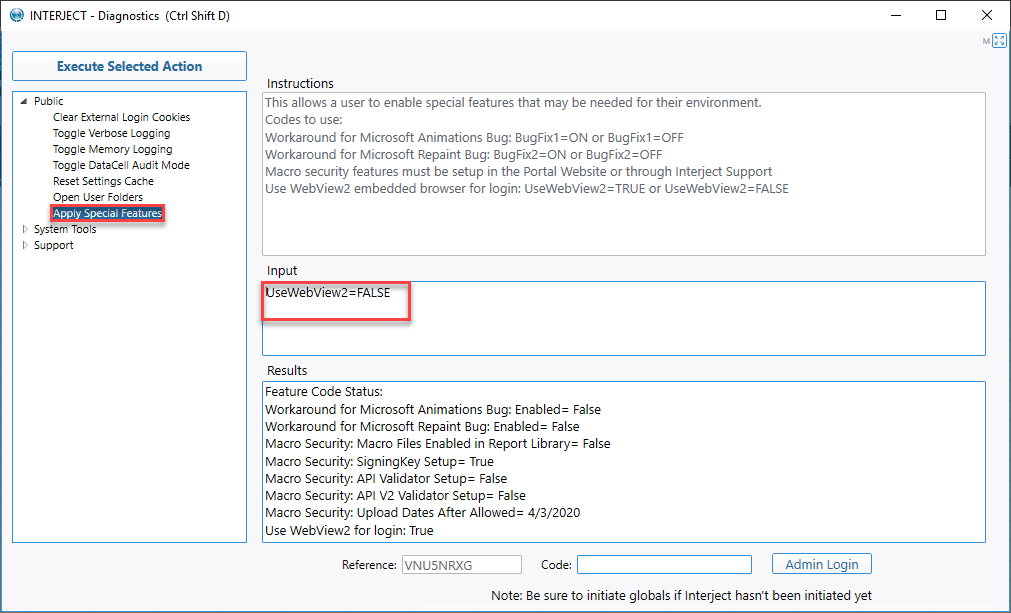
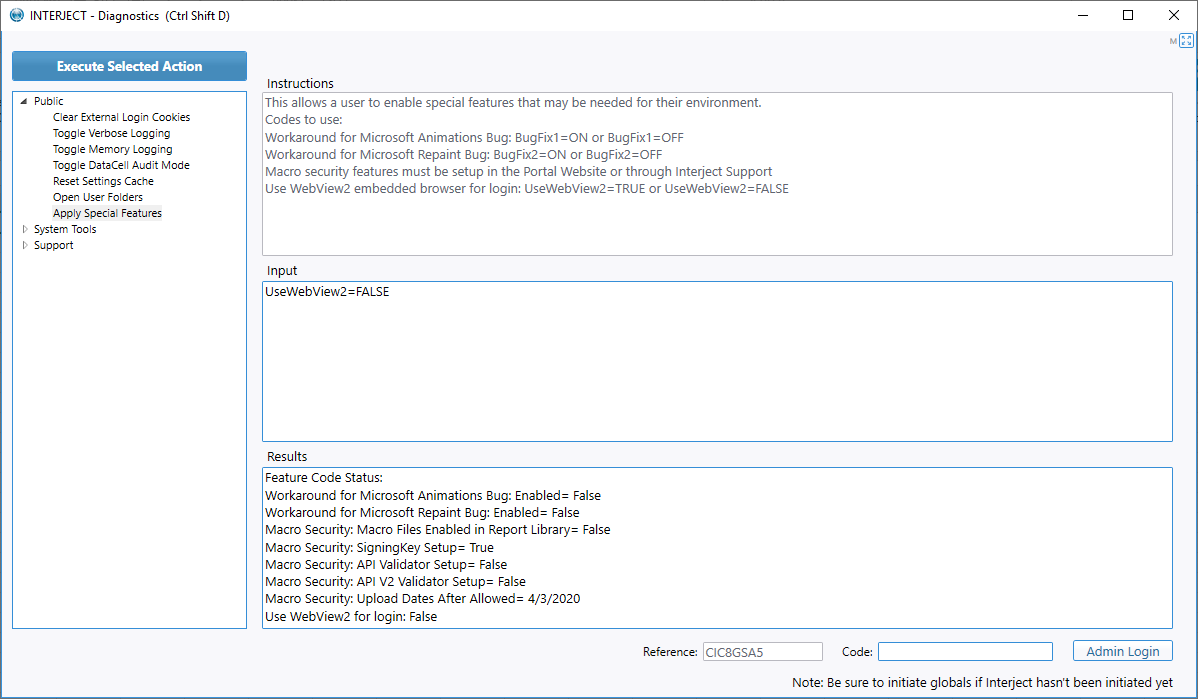
updated pics

diff --git a/wAbout/Logging-In-Enterprise.md b/wAbout/Logging-In-Enterprise.md
@@ -4,7 +4,7 @@ filename: "Logging-In-Enterprise.md"
 layout: custom
 keywords: [login, ribbon, logout, new login, credentials, accounts, enterprise, user]
 headings: ["Overview", "Initial Enterprise Login", "New Login", "Logging Out", "Log Back In", "Switch Accounts", "Forgetting Login Credentials", "Clearing Login Cookies"]
-links: ["#initial-enterprise-login"]
+links: ["https://docs.gointerject.com/wIndex/Diagnostics-SpecialFeatures.html#webview2browser-login", "#initial-enterprise-login"]
 image_dir: "Login-Enterprise"
 images: [
 	{file: "interject-ribbon-advanced-menu-login-revised", type: "png", site: "Add-in", cat: "Ribbon", sub: "", report: "", ribbon: "Simple", config: ""}, 
@@ -34,7 +34,7 @@ Logging in is simple and fast! Interject will remember your login for 30 days. Y
 Once a federated identity is configured for an Interject client, users can provide an accompanying enterprise login code and login to Interject with their federated identity. This page describes how to use the login from the Interject Excel Add-in.
 
 <blockquote class=highlight_note>
-<b>Note:</b> This page uses Interject version 2.5.0.19 for the content and screenshots.
+<b>Note:</b> Interject uses Webview2 for its login form. For instructions on how to use your browser instead, see <a href="https://docs.gointerject.com/wIndex/Diagnostics-SpecialFeatures.html#webview2browser-login">Webview2/Browser Login</a>.
 </blockquote>
 
 ### Initial Enterprise Login

diff --git a/wAbout/Logging-In.md b/wAbout/Logging-In.md
@@ -4,7 +4,7 @@ filename: "Logging-In.md"
 layout: custom
 keywords: [login, ribbon, logout, new login, credentials, accounts, user]
 headings: ["Overview", "Initial Interject Login", "New Login", "Logging Out", "Log Back In", "Switch Accounts", "Forgetting Login Credentials"]
-links: ["#initial-interject-login"]
+links: ["https://docs.gointerject.com/wIndex/Diagnostics-SpecialFeatures.html#webview2browser-login", "#initial-interject-login"]
 image_dir: "LogginIn"
 images: [
 	{file: "interject-ribbon-advanced-menu-login-revised", type: "png", site: "Add-in", cat: "Ribbon", sub: "", report: "", ribbon: "Simple", config: ""}, 
@@ -29,7 +29,7 @@ description: Logging in is simple and fast! Interject will remember your login a
 Logging in is simple and fast! Interject will remember your login for 30 days. You can also add multiple logins and switch accounts easily.
 
 <blockquote class=highlight_note>
-<b>Note:</b> This page uses Interject version 2.5.0.19 for the content and screenshots.
+<b>Note:</b> Interject uses Webview2 for its login form. For instructions on how to use your browser instead, see <a href="https://docs.gointerject.com/wIndex/Diagnostics-SpecialFeatures.html#webview2browser-login">Webview2/Browser Login</a>.
 </blockquote>
 
 ### Initial Interject Login

diff --git a/wIndex/Diagnostics-SpecialFeatures.md b/wIndex/Diagnostics-SpecialFeatures.md
@@ -72,15 +72,31 @@ BugFix2=OFF
 
 These are displayed for your reference here. For more on information, see [Macro Security](/wIndex/MacroSecurity.html)
 
-## Webview2 Login
+![](/images/DiagnosticsSpecialFeatures/MacroSecuritySettings.png)
+<br>
 
+## Webview2/Browser Login
 
+Interject provides an alternative to the standard Webview2 login form. Your default web browser can be used instead by setting the UseWebView2 switch in Diagnostics.
+
+<blockquote class=highlight_note>
+<b>Note:</b> Web browser login is only supported by Microsoft Edge at this time.
+</blockquote>
+<br>
+
+![](/images/DiagnosticsSpecialFeatures/LoginCompare.png)
+<br>
 
 ```
 UseWebView2=TRUE
 ```
 
+![](/images/DiagnosticsSpecialFeatures/Webview2True.png)
+<br>
 
 ```
 UseWebView2=FALSE
 ```
+
+![](/images/DiagnosticsSpecialFeatures/Webview2False.png)
+<br>
